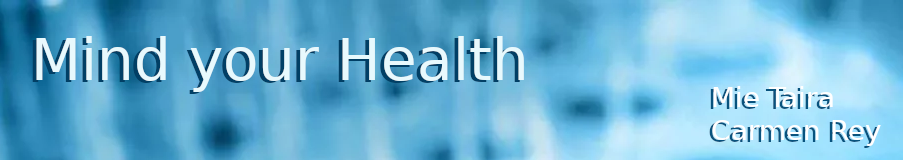
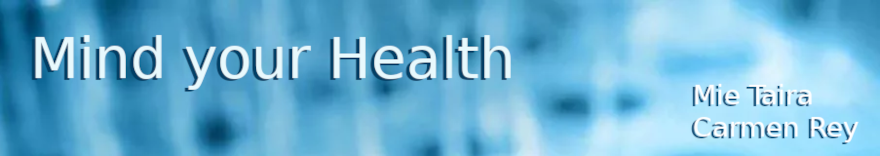
cambiando portada para que se adapte en móviles

diff --git a/mindyourhealth.py b/mindyourhealth.py
@@ -9,7 +9,7 @@ st.set_page_config(**PAGE_CONFIG)
 
 def main():
 
-    st.image("data/portada.png", width=880)
+    st.image("data/portada.png")
 
     tab0, tab1, tab2, tab3, tab4 = st.tabs(["Intro Health Watcher", "Estudio de Enfermedades con power BI", "Predicción de  Diabetes con Machine Learning", "Drug Analyzer", "Recomendaciones"])
 
